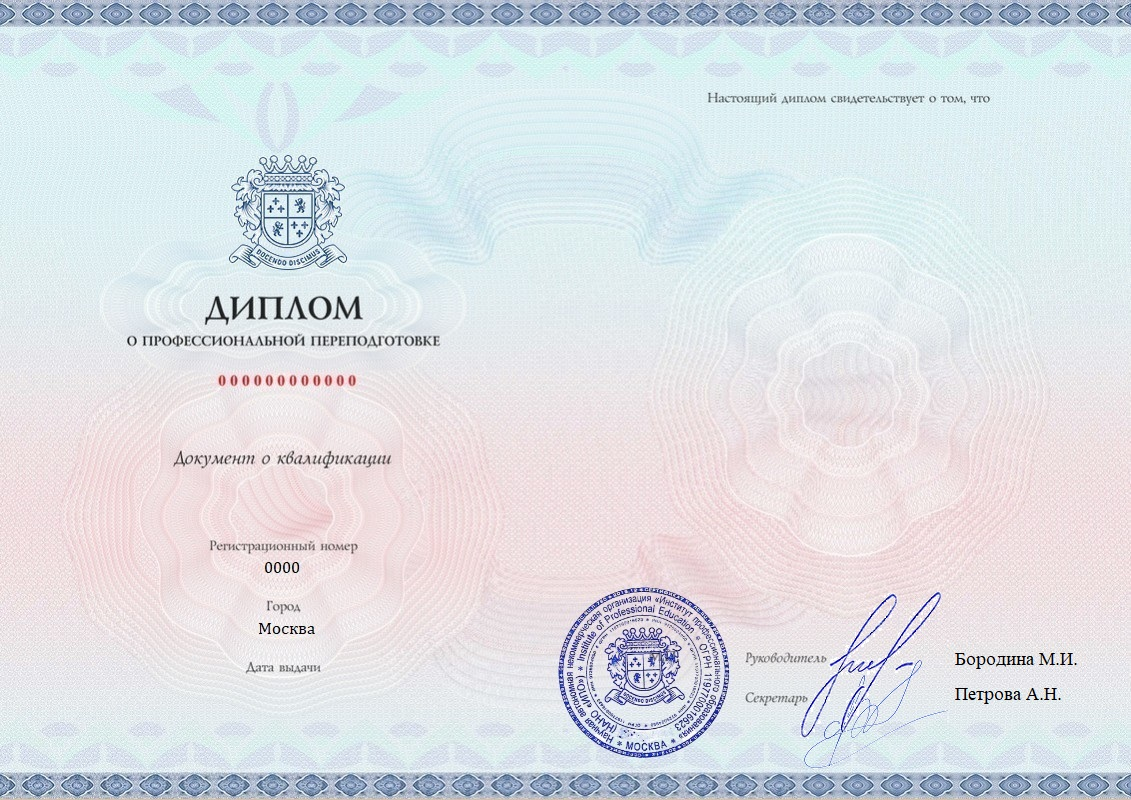
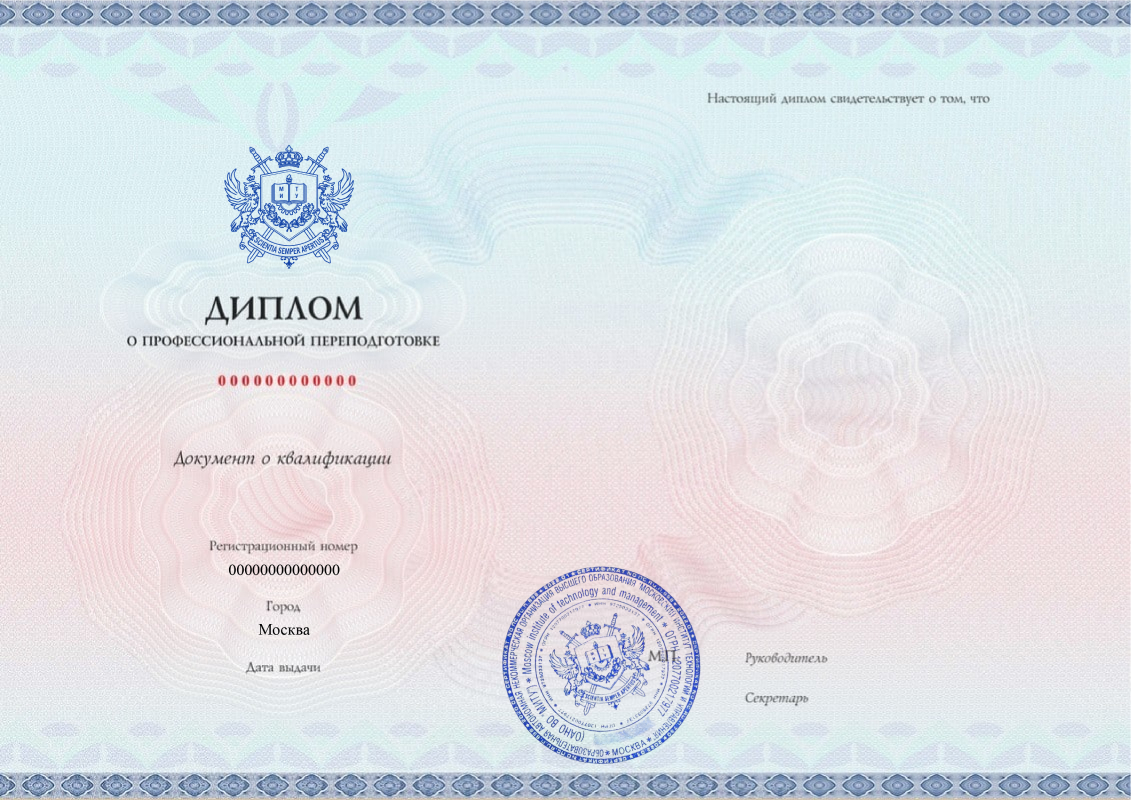
updated dynamic profession diploma

diff --git a/components/imgs/diplomas/ImgDiplomaDynamicProfession.tsx b/components/imgs/diplomas/ImgDiplomaDynamicProfession.tsx
@@ -87,7 +87,7 @@ const ImgDiplomaDynamicProfession = ({
     'за время обучения в период'
   )},w_410,x_283,y_145,g_north/c_fit,l_text:${PTSerif}_16_center:${encodeURIComponent(
     `с ${fromDate} года по ${toDate} года \n\n прошел профессиональную переподготовку в Научной автономной некоммерческой организации \n «Московский Институт Профессионального Образования» \n\n по программе «${programName}» \n\n Решением \n от ${fromDateOff}${coma} протокол 0000 \n\n Диплом предоставляет право на ведение профессиональной деятельности в сфере \n\n «${programName}» \n\n и подтверждает присвоение квалификации \n ${qualification}`
-  )},w_450,x_283,y_169,g_north/diploma-template_neatmm.jpg`
+  )},w_450,x_283,y_169,g_north/v1653299519/diploma-dynamic-profession_sbtu1q.jpg`
 
   // console.log(src)
   return (
